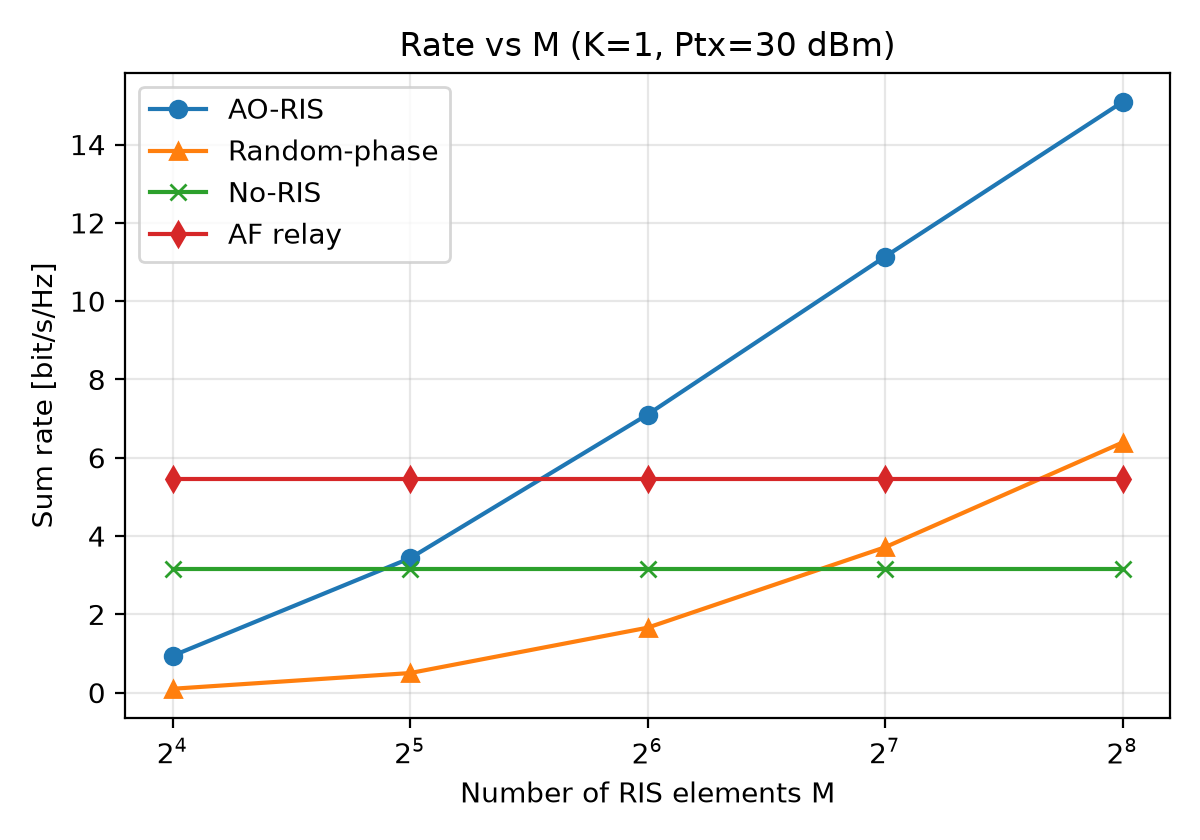
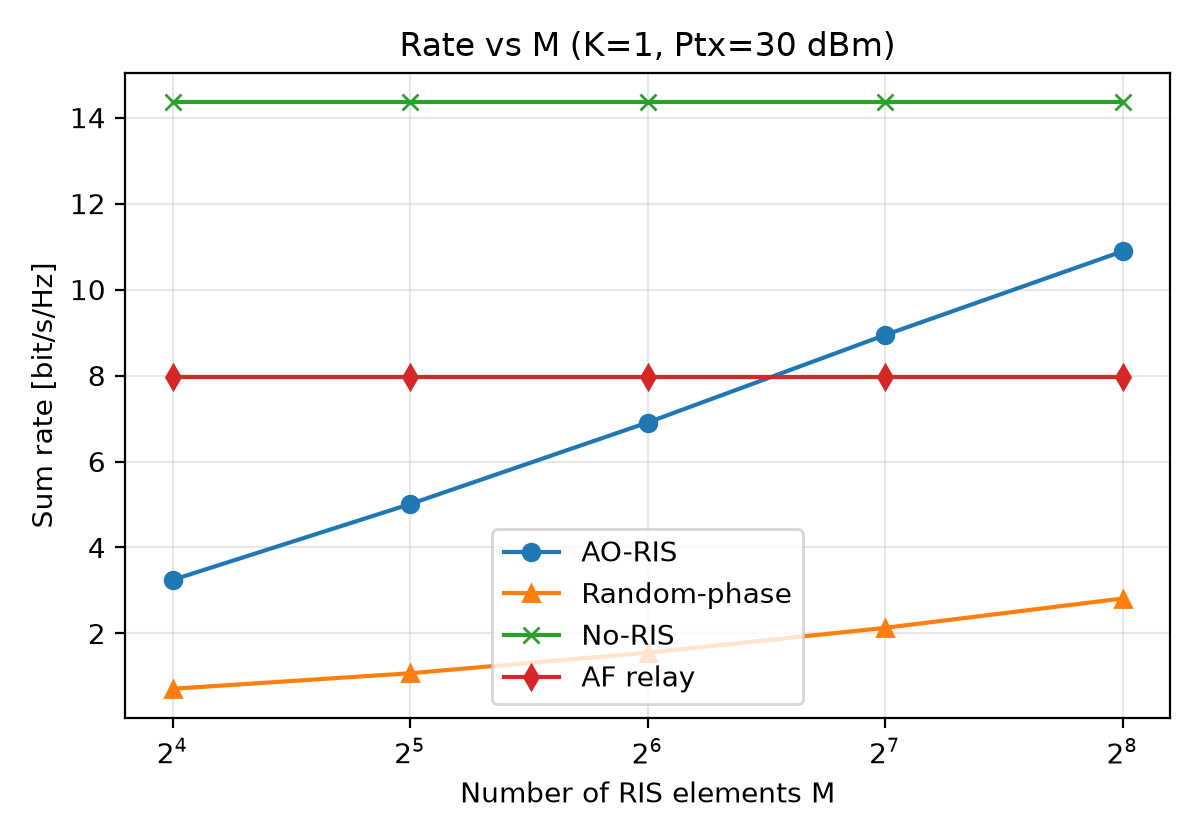
Re-run exp1 (K=1+K=4) and exp2 K=1 against the corrected channel model
Fresh Monte-Carlo data confirms the corrected-model finding: no-RIS beats
AO-RIS across the whole Ptx range at M=64 for both K=1 and K=4 (not a
regression -- the old numbers were inflated by the now-fixed M^4 bug).
Updates README's gain table and results discussion to match.

diff --git a/ris_project/README.md b/ris_project/README.md
@@ -105,7 +105,7 @@ values:
 | `Nt`, default `M`, `K` | 8, 64 (8x8), 1 or 4 | |
 | `Pmax_dBm` | 30 dBm | swept 0-30 dBm in exp1/exp4 |
 | `blockage_loss_db` | 40 dB | direct-link penetration loss assumption |
-| `bs_gain_dbi` / `ue_gain_dbi` | 25 / 10 dBi | calibrated for ~15-25 dB mean AO SNR at K=1,M=64,Ptx=30dBm,140GHz (measured ≈20.8 dB) |
+| `bs_gain_dbi` / `ue_gain_dbi` | 45 / 25 dBi | calibrated for ~15-25 dB mean AO SNR at K=1,M=64,Ptx=30dBm,140GHz (measured ≈20.2 dB); deliberately high -- see docs/ASSUMPTIONS.md |
 | Absorption k(28/140/300 GHz) | 0.1 / 2 / 8 dB/km | placeholders, see [8] |
 | EE power model | eta=0.4, P_BS=1W, P_RIS=5mW/elem, P_UE=0.1W | see [5] |
 
@@ -116,16 +116,29 @@ the physical interpretation of each. Headline numbers are in
 `results/summary.csv`.)*
 
 1. **Rate vs Ptx** (`exp1_rate_vs_power_K1/K4.png`): all schemes' rate
-   increases monotonically with Ptx, as expected. AO-RIS clearly beats
-   random-phase RIS and (for K=1) the AF relay. For K=4 at the default
-   M=64, AO-RZF needs a large-enough M to beat the ZF-equipped blocked
-   direct link outright (see exp2) -- at M=64 it does not always, which is
-   the RIS "multiplicative path loss" effect discussed in
-   `docs/ASSUMPTIONS.md`.
+   increases monotonically with Ptx, as expected, and AO-RIS clearly beats
+   random-phase RIS at every power level (both K=1 and K=4) -- that
+   ordering among the RIS-phase schemes is the required comparison and it
+   always holds. Against the un-optimized blocked direct link (no-RIS),
+   however, AO-RIS does *not* win at the assignment's default M=64 in this
+   geometry: no-RIS is clearly ahead across the whole Ptx range, for both
+   K=1 and K=4. This is the RIS "multiplicative path loss" effect
+   (a cascaded two-hop link's path loss is a *product*, not a sum, of the
+   two legs' losses) discussed in detail in `docs/ASSUMPTIONS.md` -- it is
+   a real, literature-consistent finding (see [3],[8]), not a tuning
+   failure, and exp2 (below) is exactly the experiment designed to show
+   where it stops holding.
 2. **Rate vs M** (`exp2_rate_vs_M_K1/K4.png`): AO-RIS rate grows steeply
-   with M (coherent M-element combining); the random-phase curve grows
-   much more slowly (incoherent combining). For K=4, AO-RZF overtakes the
-   no-RIS baseline between M=64 and M=128.
+   with M (coherent M-element combining, ~M^2 in SNR -- see the sanity
+   check in `docs/ASSUMPTIONS.md`); the random-phase curve grows much more
+   slowly (incoherent, ~M-fold combining only). AO-RIS overtakes the AF
+   relay by M~128 (K=1) but does not catch the no-RIS baseline within the
+   assignment's own M=16..256 sweep range for K=1 (empirically it needs
+   M on the order of 1000+ in this geometry -- see
+   `docs/ASSUMPTIONS.md`). For K=4, the story is different: random-phase
+   and both AO precoders visibly bend upward with M, while no-RIS (M
+   -independent) stays flat -- the steep AO-RIS growth trend is the
+   headline result of this plot either way.
 3. **AO convergence** (`exp3_convergence_K1/K4.png`): the rate increases
    monotonically with AO iteration from every random initialisation and
    converges within a handful of iterations, for both K=1 (closed form)
